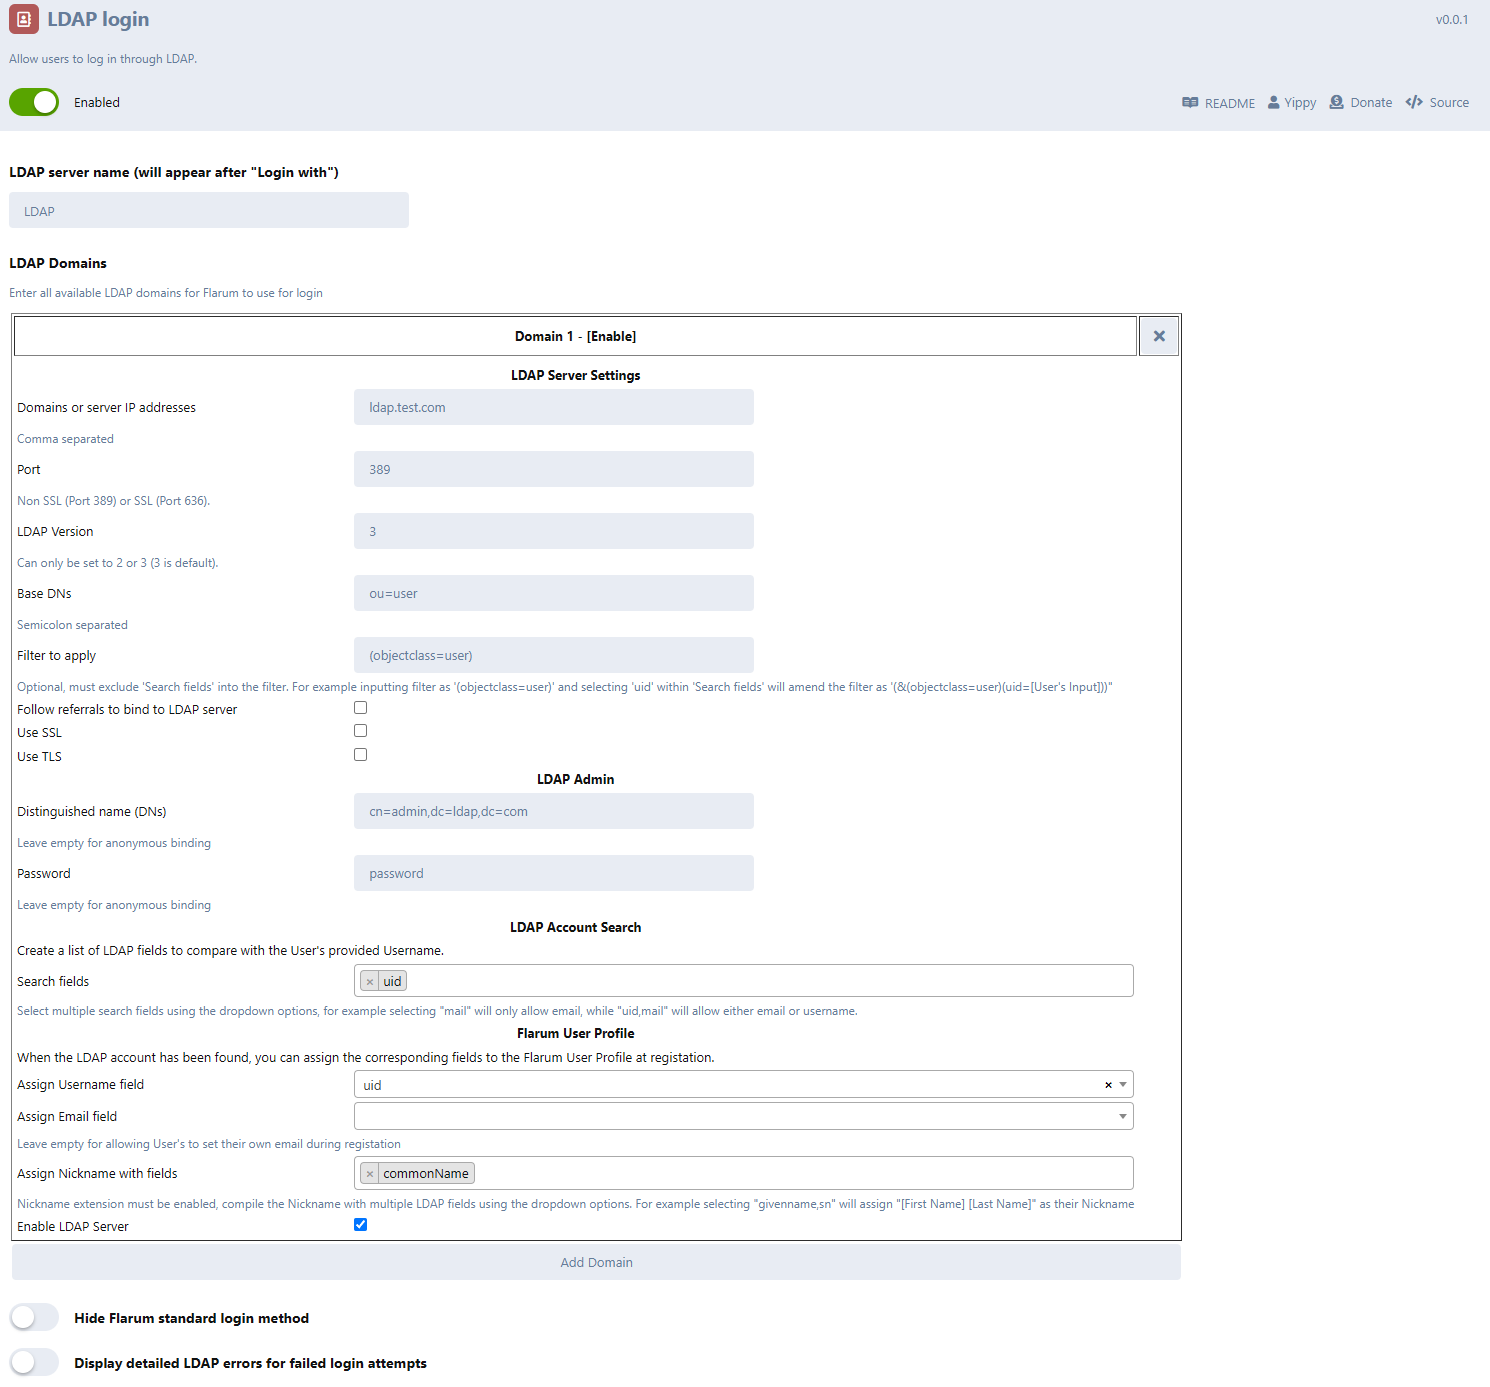
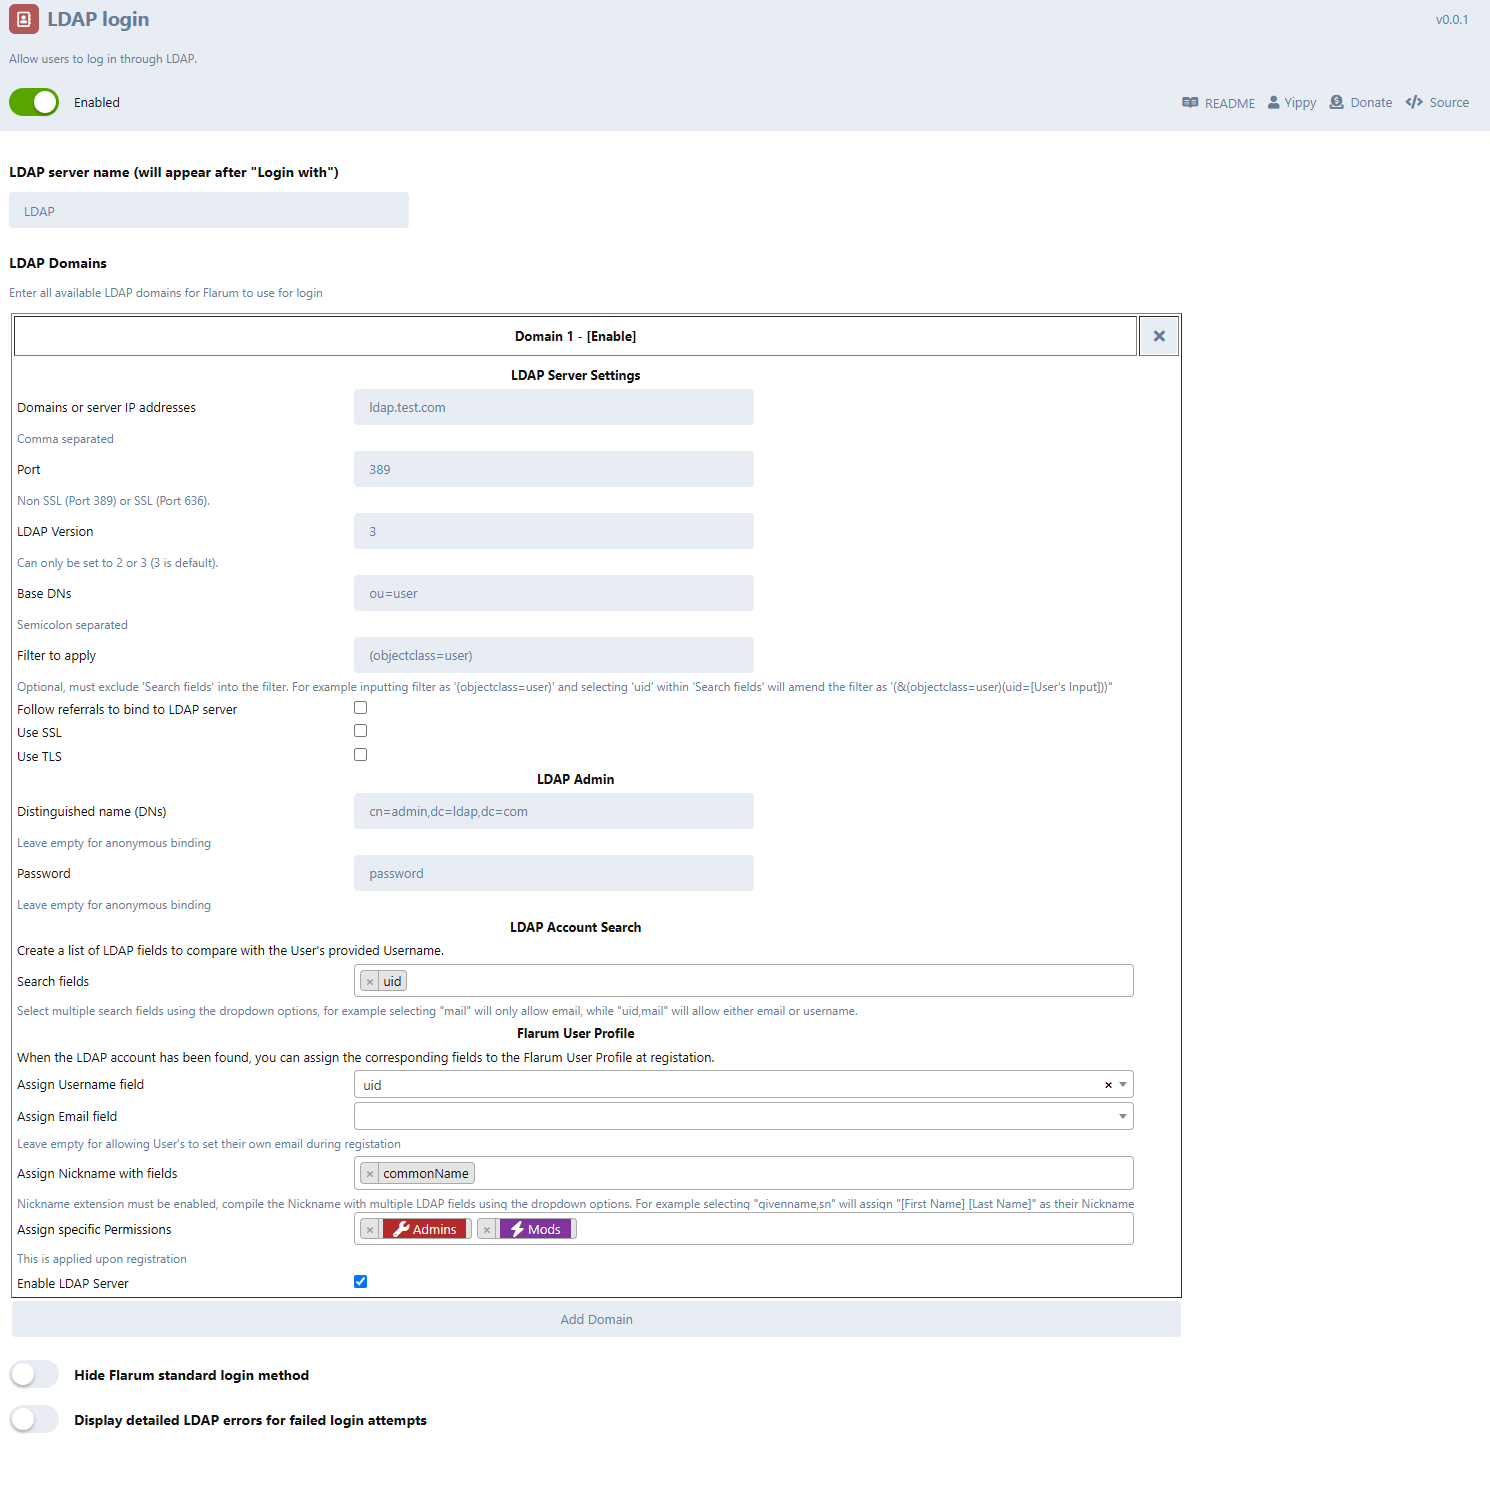
Update README and images to show new Permission Group Feature

diff --git a/README.md b/README.md
@@ -44,6 +44,9 @@ This extension support English.
 
 - `Disable Flarum login and only use LDAP authentication`: merely hides the standard login links and buttons. Users can still use the standard login method through the API.
 - `Display detailed LDAP errors for failed login attempts`: enable this option to help troubleshoot LDAP account errors for failed login, this will display a error whether the account isn't found, disabled or password expired.
+
+- `Assign specific Permissions`: Automatically add User Permission Groups to newly created Users from this LDAP Server: ![image](https://github.com/Yippy/flarum-ext-auth-ldap/raw/master/assets/images/ldap_new_user_confirmation_popup.png)
+
 - `Enable LDAP Server`: Toggle LDAP Domain server, when disabled (Unticked) this setting will be skipped.
 
 ## Development (With docker)
